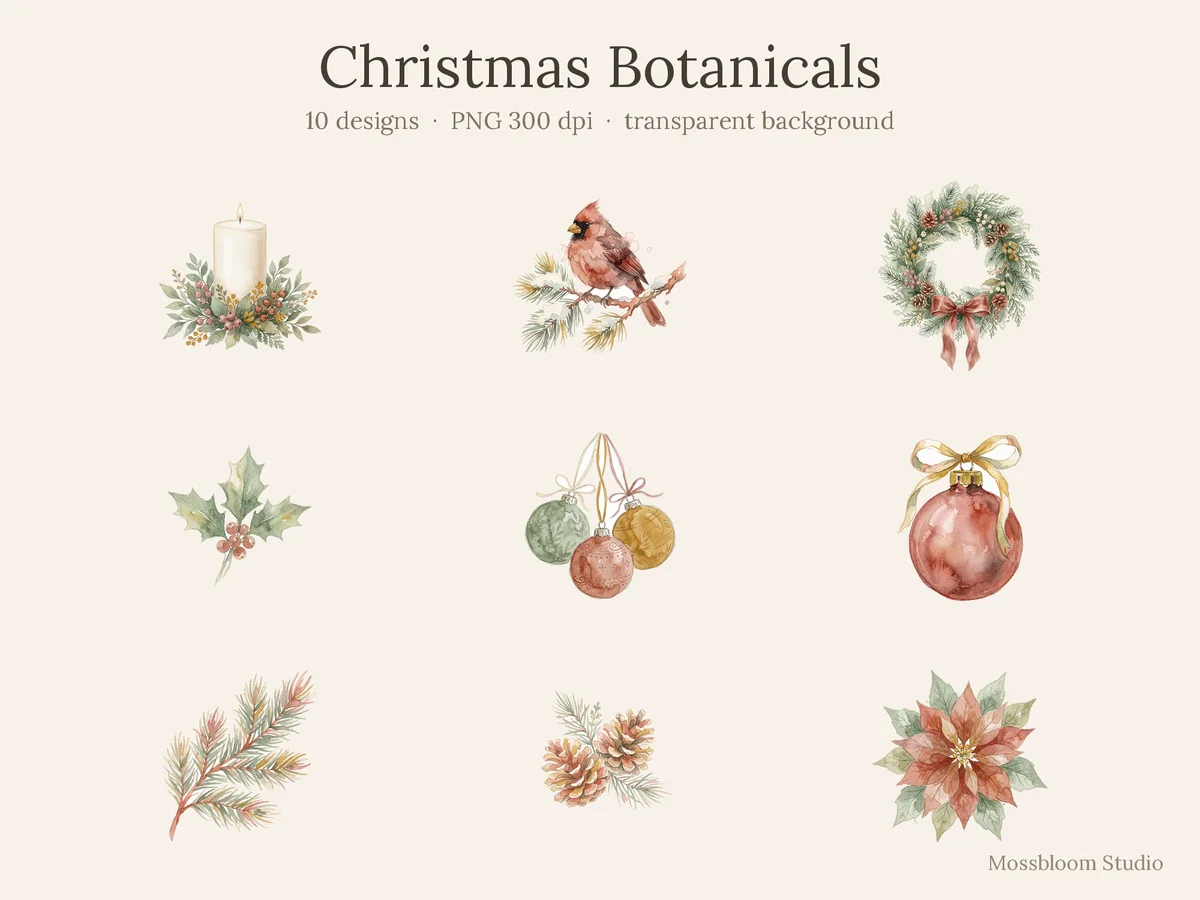
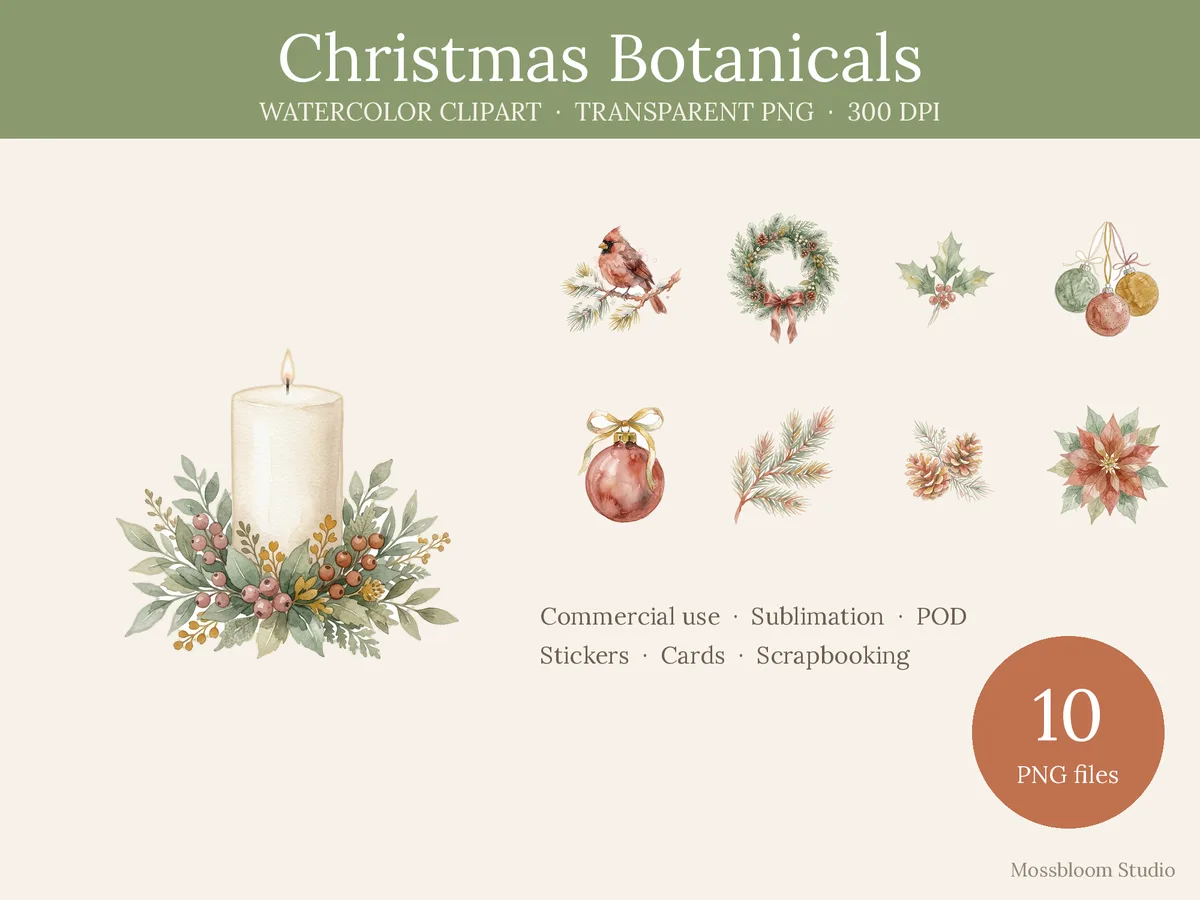
CF-style preview sheets, what's-inside sheets, bundle descriptions

diff --git a/collections/wildflower-meadow.html b/collections/wildflower-meadow.html
@@ -2,5 +2,5 @@
 <title>Wildflower Meadow | Mossbloom Studio</title><meta name="description" content="Watercolor daisies, poppies, lavender and cornflowers for summer crafts, cards and sublimation."><meta name="author" content="Mossbloom Studio">
 <meta property="og:title" content="Wildflower Meadow | Mossbloom Studio"><meta property="og:description" content="Watercolor daisies, poppies, lavender and cornflowers for summer crafts, cards and sublimation."><meta property="og:type" content="website"><meta property="og:image" content="../img/wildflower-meadow/cover.webp">
 <link rel="icon" href="../favicon.png"><link rel="stylesheet" href="../style.css"></head><body>
-<header><a class="logo" href="../index.html">Mossbloom Studio</a><nav><a href="../index.html">Home</a><a href="../portfolio.html">Portfolio</a><a href="../license.html">Formats & License</a><a href="../freebies.html">Freebies</a><a href="../about.html">About</a><a href="../contact.html">Contact</a></nav></header><main><p><a href="../portfolio.html">← Portfolio</a></p><h1>Wildflower Meadow</h1><p>Watercolor daisies, poppies, lavender and cornflowers for summer crafts, cards and sublimation.</p><p class="note">10 designs · PNG 300 dpi, transparent background · JPG · Commercial use license</p><img src="../img/wildflower-meadow/cover.webp" alt="Wildflower Meadow cover" style="width:100%;border-radius:14px"><h2>Designs</h2><div class="grid"><a class="card" href="../img/wildflower-meadow/berry-branch.webp"><img loading="lazy" src="../img/wildflower-meadow/berry-branch.webp" alt="Berry Branch - Wildflower Meadow"><div><h3>Berry Branch</h3></div></a><a class="card" href="../img/wildflower-meadow/chamomile-jar.webp"><img loading="lazy" src="../img/wildflower-meadow/chamomile-jar.webp" alt="Chamomile Jar - Wildflower Meadow"><div><h3>Chamomile Jar</h3></div></a><a class="card" href="../img/wildflower-meadow/cornflower-trio.webp"><img loading="lazy" src="../img/wildflower-meadow/cornflower-trio.webp" alt="Cornflower Trio - Wildflower Meadow"><div><h3>Cornflower Trio</h3></div></a><a class="card" href="../img/wildflower-meadow/daisy-cluster.webp"><img loading="lazy" src="../img/wildflower-meadow/daisy-cluster.webp" alt="Daisy Cluster - Wildflower Meadow"><div><h3>Daisy Cluster</h3></div></a><a class="card" href="../img/wildflower-meadow/daisy-stem.webp"><img loading="lazy" src="../img/wildflower-meadow/daisy-stem.webp" alt="Daisy Stem - Wildflower Meadow"><div><h3>Daisy Stem</h3></div></a><a class="card" href="../img/wildflower-meadow/lavender-bundle.webp"><img loading="lazy" src="../img/wildflower-meadow/lavender-bundle.webp" alt="Lavender Bundle - Wildflower Meadow"><div><h3>Lavender Bundle</h3></div></a><a class="card" href="../img/wildflower-meadow/meadow-bouquet.webp"><img loading="lazy" src="../img/wildflower-meadow/meadow-bouquet.webp" alt="Meadow Bouquet - Wildflower Meadow"><div><h3>Meadow Bouquet</h3></div></a><a class="card" href="../img/wildflower-meadow/poppy-pair.webp"><img loading="lazy" src="../img/wildflower-meadow/poppy-pair.webp" alt="Poppy Pair - Wildflower Meadow"><div><h3>Poppy Pair</h3></div></a><a class="card" href="../img/wildflower-meadow/wild-rose.webp"><img loading="lazy" src="../img/wildflower-meadow/wild-rose.webp" alt="Wild Rose - Wildflower Meadow"><div><h3>Wild Rose</h3></div></a><a class="card" href="../img/wildflower-meadow/wildflower-wreath.webp"><img loading="lazy" src="../img/wildflower-meadow/wildflower-wreath.webp" alt="Wildflower Wreath - Wildflower Meadow"><div><h3>Wildflower Wreath</h3></div></a></div><h2>Mockups</h2><div class="grid big"><a class="card wide" href="../img/wildflower-meadow/mug.webp"><img loading="lazy" src="../img/wildflower-meadow/mug.webp" alt="Wildflower Meadow mug mockup"><div><h3>Mug mockup</h3></div></a><a class="card wide" href="../img/wildflower-meadow/tshirt.webp"><img loading="lazy" src="../img/wildflower-meadow/tshirt.webp" alt="Wildflower Meadow tshirt mockup"><div><h3>Tshirt mockup</h3></div></a><a class="card wide" href="../img/wildflower-meadow/stickers.webp"><img loading="lazy" src="../img/wildflower-meadow/stickers.webp" alt="Wildflower Meadow stickers mockup"><div><h3>Stickers mockup</h3></div></a><a class="card wide" href="../img/wildflower-meadow/card.webp"><img loading="lazy" src="../img/wildflower-meadow/card.webp" alt="Wildflower Meadow card mockup"><div><h3>Card mockup</h3></div></a></div></main>
+<header><a class="logo" href="../index.html">Mossbloom Studio</a><nav><a href="../index.html">Home</a><a href="../portfolio.html">Portfolio</a><a href="../license.html">Formats & License</a><a href="../freebies.html">Freebies</a><a href="../about.html">About</a><a href="../contact.html">Contact</a></nav></header><main><p><a href="../portfolio.html">← Portfolio</a></p><h1>Wildflower Meadow</h1><p>Watercolor daisies, poppies, lavender and cornflowers for summer crafts, cards and sublimation.</p><p class="note">10 designs · PNG 300 dpi, transparent background · JPG · Commercial use license</p><img src="../img/wildflower-meadow/cover.webp" alt="Wildflower Meadow cover" style="width:100%;border-radius:14px"><div class="grid big"><div class="note"><h3>What you get</h3><ul><li>10 watercolor clipart elements</li><li>Transparent PNG, 300 dpi, up to 6.8 inches on the longest side</li><li>Commercial use license included</li></ul></div><div class="note"><h3>What's inside</h3><p>Berry Branch, Chamomile Jar, Cornflower Trio, Daisy Cluster, Daisy Stem, Lavender Bundle, Meadow Bouquet, Poppy Pair, Wild Rose, Wildflower Wreath</p></div><div class="note"><h3>Perfect for</h3><p>sublimation, tumblers & mugs, t-shirts, stickers, cards & invitations, scrapbooking, junk journals, nursery & home decor</p></div></div><h2>Designs</h2><div class="grid"><a class="card" href="../img/wildflower-meadow/berry-branch.webp"><img loading="lazy" src="../img/wildflower-meadow/berry-branch.webp" alt="Berry Branch - Wildflower Meadow"><div><h3>Berry Branch</h3></div></a><a class="card" href="../img/wildflower-meadow/chamomile-jar.webp"><img loading="lazy" src="../img/wildflower-meadow/chamomile-jar.webp" alt="Chamomile Jar - Wildflower Meadow"><div><h3>Chamomile Jar</h3></div></a><a class="card" href="../img/wildflower-meadow/cornflower-trio.webp"><img loading="lazy" src="../img/wildflower-meadow/cornflower-trio.webp" alt="Cornflower Trio - Wildflower Meadow"><div><h3>Cornflower Trio</h3></div></a><a class="card" href="../img/wildflower-meadow/daisy-cluster.webp"><img loading="lazy" src="../img/wildflower-meadow/daisy-cluster.webp" alt="Daisy Cluster - Wildflower Meadow"><div><h3>Daisy Cluster</h3></div></a><a class="card" href="../img/wildflower-meadow/daisy-stem.webp"><img loading="lazy" src="../img/wildflower-meadow/daisy-stem.webp" alt="Daisy Stem - Wildflower Meadow"><div><h3>Daisy Stem</h3></div></a><a class="card" href="../img/wildflower-meadow/lavender-bundle.webp"><img loading="lazy" src="../img/wildflower-meadow/lavender-bundle.webp" alt="Lavender Bundle - Wildflower Meadow"><div><h3>Lavender Bundle</h3></div></a><a class="card" href="../img/wildflower-meadow/meadow-bouquet.webp"><img loading="lazy" src="../img/wildflower-meadow/meadow-bouquet.webp" alt="Meadow Bouquet - Wildflower Meadow"><div><h3>Meadow Bouquet</h3></div></a><a class="card" href="../img/wildflower-meadow/poppy-pair.webp"><img loading="lazy" src="../img/wildflower-meadow/poppy-pair.webp" alt="Poppy Pair - Wildflower Meadow"><div><h3>Poppy Pair</h3></div></a><a class="card" href="../img/wildflower-meadow/wild-rose.webp"><img loading="lazy" src="../img/wildflower-meadow/wild-rose.webp" alt="Wild Rose - Wildflower Meadow"><div><h3>Wild Rose</h3></div></a><a class="card" href="../img/wildflower-meadow/wildflower-wreath.webp"><img loading="lazy" src="../img/wildflower-meadow/wildflower-wreath.webp" alt="Wildflower Wreath - Wildflower Meadow"><div><h3>Wildflower Wreath</h3></div></a></div><h2>What's inside</h2><img loading="lazy" src="../img/wildflower-meadow/inside.webp" alt="Wildflower Meadow contents" style="width:100%;border-radius:14px;background:#fff"><h2>Mockups</h2><div class="grid big"><a class="card wide" href="../img/wildflower-meadow/mug.webp"><img loading="lazy" src="../img/wildflower-meadow/mug.webp" alt="Wildflower Meadow mug mockup"><div><h3>Mug mockup</h3></div></a><a class="card wide" href="../img/wildflower-meadow/tshirt.webp"><img loading="lazy" src="../img/wildflower-meadow/tshirt.webp" alt="Wildflower Meadow tshirt mockup"><div><h3>Tshirt mockup</h3></div></a><a class="card wide" href="../img/wildflower-meadow/stickers.webp"><img loading="lazy" src="../img/wildflower-meadow/stickers.webp" alt="Wildflower Meadow stickers mockup"><div><h3>Stickers mockup</h3></div></a><a class="card wide" href="../img/wildflower-meadow/card.webp"><img loading="lazy" src="../img/wildflower-meadow/card.webp" alt="Wildflower Meadow card mockup"><div><h3>Card mockup</h3></div></a></div></main>
 <footer>© 2026 Mossbloom Studio · Original watercolor clipart &amp; SVG designs · Creative Fabrica Account ID #11487475</footer></body></html>

diff --git a/collections/christmas-botanicals.html b/collections/christmas-botanicals.html
@@ -2,5 +2,5 @@
 <title>Christmas Botanicals | Mossbloom Studio</title><meta name="description" content="Pine sprigs, holly, ornaments, poinsettias and wreaths for holiday cards and decor."><meta name="author" content="Mossbloom Studio">
 <meta property="og:title" content="Christmas Botanicals | Mossbloom Studio"><meta property="og:description" content="Pine sprigs, holly, ornaments, poinsettias and wreaths for holiday cards and decor."><meta property="og:type" content="website"><meta property="og:image" content="../img/wildflower-meadow/cover.webp">
 <link rel="icon" href="../favicon.png"><link rel="stylesheet" href="../style.css"></head><body>
-<header><a class="logo" href="../index.html">Mossbloom Studio</a><nav><a href="../index.html">Home</a><a href="../portfolio.html">Portfolio</a><a href="../license.html">Formats & License</a><a href="../freebies.html">Freebies</a><a href="../about.html">About</a><a href="../contact.html">Contact</a></nav></header><main><p><a href="../portfolio.html">← Portfolio</a></p><h1>Christmas Botanicals</h1><p>Pine sprigs, holly, ornaments, poinsettias and wreaths for holiday cards and decor.</p><p class="note">10 designs · PNG 300 dpi, transparent background · JPG · Commercial use license</p><img src="../img/christmas-botanicals/cover.webp" alt="Christmas Botanicals cover" style="width:100%;border-radius:14px"><h2>Designs</h2><div class="grid"><a class="card" href="../img/christmas-botanicals/candle.webp"><img loading="lazy" src="../img/christmas-botanicals/candle.webp" alt="Candle - Christmas Botanicals"><div><h3>Candle</h3></div></a><a class="card" href="../img/christmas-botanicals/cardinal.webp"><img loading="lazy" src="../img/christmas-botanicals/cardinal.webp" alt="Cardinal - Christmas Botanicals"><div><h3>Cardinal</h3></div></a><a class="card" href="../img/christmas-botanicals/christmas-wreath.webp"><img loading="lazy" src="../img/christmas-botanicals/christmas-wreath.webp" alt="Christmas Wreath - Christmas Botanicals"><div><h3>Christmas Wreath</h3></div></a><a class="card" href="../img/christmas-botanicals/holly.webp"><img loading="lazy" src="../img/christmas-botanicals/holly.webp" alt="Holly - Christmas Botanicals"><div><h3>Holly</h3></div></a><a class="card" href="../img/christmas-botanicals/ornament-trio.webp"><img loading="lazy" src="../img/christmas-botanicals/ornament-trio.webp" alt="Ornament Trio - Christmas Botanicals"><div><h3>Ornament Trio</h3></div></a><a class="card" href="../img/christmas-botanicals/ornament.webp"><img loading="lazy" src="../img/christmas-botanicals/ornament.webp" alt="Ornament - Christmas Botanicals"><div><h3>Ornament</h3></div></a><a class="card" href="../img/christmas-botanicals/pine-sprig.webp"><img loading="lazy" src="../img/christmas-botanicals/pine-sprig.webp" alt="Pine Sprig - Christmas Botanicals"><div><h3>Pine Sprig</h3></div></a><a class="card" href="../img/christmas-botanicals/pinecones.webp"><img loading="lazy" src="../img/christmas-botanicals/pinecones.webp" alt="Pinecones - Christmas Botanicals"><div><h3>Pinecones</h3></div></a><a class="card" href="../img/christmas-botanicals/poinsettia.webp"><img loading="lazy" src="../img/christmas-botanicals/poinsettia.webp" alt="Poinsettia - Christmas Botanicals"><div><h3>Poinsettia</h3></div></a><a class="card" href="../img/christmas-botanicals/winter-bouquet.webp"><img loading="lazy" src="../img/christmas-botanicals/winter-bouquet.webp" alt="Winter Bouquet - Christmas Botanicals"><div><h3>Winter Bouquet</h3></div></a></div><h2>Mockups</h2><div class="grid big"><a class="card wide" href="../img/christmas-botanicals/mug.webp"><img loading="lazy" src="../img/christmas-botanicals/mug.webp" alt="Christmas Botanicals mug mockup"><div><h3>Mug mockup</h3></div></a><a class="card wide" href="../img/christmas-botanicals/tshirt.webp"><img loading="lazy" src="../img/christmas-botanicals/tshirt.webp" alt="Christmas Botanicals tshirt mockup"><div><h3>Tshirt mockup</h3></div></a><a class="card wide" href="../img/christmas-botanicals/stickers.webp"><img loading="lazy" src="../img/christmas-botanicals/stickers.webp" alt="Christmas Botanicals stickers mockup"><div><h3>Stickers mockup</h3></div></a><a class="card wide" href="../img/christmas-botanicals/card.webp"><img loading="lazy" src="../img/christmas-botanicals/card.webp" alt="Christmas Botanicals card mockup"><div><h3>Card mockup</h3></div></a></div></main>
+<header><a class="logo" href="../index.html">Mossbloom Studio</a><nav><a href="../index.html">Home</a><a href="../portfolio.html">Portfolio</a><a href="../license.html">Formats & License</a><a href="../freebies.html">Freebies</a><a href="../about.html">About</a><a href="../contact.html">Contact</a></nav></header><main><p><a href="../portfolio.html">← Portfolio</a></p><h1>Christmas Botanicals</h1><p>Pine sprigs, holly, ornaments, poinsettias and wreaths for holiday cards and decor.</p><p class="note">10 designs · PNG 300 dpi, transparent background · JPG · Commercial use license</p><img src="../img/christmas-botanicals/cover.webp" alt="Christmas Botanicals cover" style="width:100%;border-radius:14px"><div class="grid big"><div class="note"><h3>What you get</h3><ul><li>10 watercolor clipart elements</li><li>Transparent PNG, 300 dpi, up to 6.8 inches on the longest side</li><li>Commercial use license included</li></ul></div><div class="note"><h3>What's inside</h3><p>Candle, Cardinal, Christmas Wreath, Holly, Ornament Trio, Ornament, Pine Sprig, Pinecones, Poinsettia, Winter Bouquet</p></div><div class="note"><h3>Perfect for</h3><p>sublimation, tumblers & mugs, t-shirts, stickers, cards & invitations, scrapbooking, junk journals, nursery & home decor</p></div></div><h2>Designs</h2><div class="grid"><a class="card" href="../img/christmas-botanicals/candle.webp"><img loading="lazy" src="../img/christmas-botanicals/candle.webp" alt="Candle - Christmas Botanicals"><div><h3>Candle</h3></div></a><a class="card" href="../img/christmas-botanicals/cardinal.webp"><img loading="lazy" src="../img/christmas-botanicals/cardinal.webp" alt="Cardinal - Christmas Botanicals"><div><h3>Cardinal</h3></div></a><a class="card" href="../img/christmas-botanicals/christmas-wreath.webp"><img loading="lazy" src="../img/christmas-botanicals/christmas-wreath.webp" alt="Christmas Wreath - Christmas Botanicals"><div><h3>Christmas Wreath</h3></div></a><a class="card" href="../img/christmas-botanicals/holly.webp"><img loading="lazy" src="../img/christmas-botanicals/holly.webp" alt="Holly - Christmas Botanicals"><div><h3>Holly</h3></div></a><a class="card" href="../img/christmas-botanicals/ornament-trio.webp"><img loading="lazy" src="../img/christmas-botanicals/ornament-trio.webp" alt="Ornament Trio - Christmas Botanicals"><div><h3>Ornament Trio</h3></div></a><a class="card" href="../img/christmas-botanicals/ornament.webp"><img loading="lazy" src="../img/christmas-botanicals/ornament.webp" alt="Ornament - Christmas Botanicals"><div><h3>Ornament</h3></div></a><a class="card" href="../img/christmas-botanicals/pine-sprig.webp"><img loading="lazy" src="../img/christmas-botanicals/pine-sprig.webp" alt="Pine Sprig - Christmas Botanicals"><div><h3>Pine Sprig</h3></div></a><a class="card" href="../img/christmas-botanicals/pinecones.webp"><img loading="lazy" src="../img/christmas-botanicals/pinecones.webp" alt="Pinecones - Christmas Botanicals"><div><h3>Pinecones</h3></div></a><a class="card" href="../img/christmas-botanicals/poinsettia.webp"><img loading="lazy" src="../img/christmas-botanicals/poinsettia.webp" alt="Poinsettia - Christmas Botanicals"><div><h3>Poinsettia</h3></div></a><a class="card" href="../img/christmas-botanicals/winter-bouquet.webp"><img loading="lazy" src="../img/christmas-botanicals/winter-bouquet.webp" alt="Winter Bouquet - Christmas Botanicals"><div><h3>Winter Bouquet</h3></div></a></div><h2>What's inside</h2><img loading="lazy" src="../img/christmas-botanicals/inside.webp" alt="Christmas Botanicals contents" style="width:100%;border-radius:14px;background:#fff"><h2>Mockups</h2><div class="grid big"><a class="card wide" href="../img/christmas-botanicals/mug.webp"><img loading="lazy" src="../img/christmas-botanicals/mug.webp" alt="Christmas Botanicals mug mockup"><div><h3>Mug mockup</h3></div></a><a class="card wide" href="../img/christmas-botanicals/tshirt.webp"><img loading="lazy" src="../img/christmas-botanicals/tshirt.webp" alt="Christmas Botanicals tshirt mockup"><div><h3>Tshirt mockup</h3></div></a><a class="card wide" href="../img/christmas-botanicals/stickers.webp"><img loading="lazy" src="../img/christmas-botanicals/stickers.webp" alt="Christmas Botanicals stickers mockup"><div><h3>Stickers mockup</h3></div></a><a class="card wide" href="../img/christmas-botanicals/card.webp"><img loading="lazy" src="../img/christmas-botanicals/card.webp" alt="Christmas Botanicals card mockup"><div><h3>Card mockup</h3></div></a></div></main>
 <footer>© 2026 Mossbloom Studio · Original watercolor clipart &amp; SVG designs · Creative Fabrica Account ID #11487475</footer></body></html>

diff --git a/collections/spring-birds.html b/collections/spring-birds.html
@@ -2,5 +2,5 @@
 <title>Spring Birds | Mossbloom Studio</title><meta name="description" content="Sweet songbirds, blossom branches, nests and tulips in soft spring colors."><meta name="author" content="Mossbloom Studio">
 <meta property="og:title" content="Spring Birds | Mossbloom Studio"><meta property="og:description" content="Sweet songbirds, blossom branches, nests and tulips in soft spring colors."><meta property="og:type" content="website"><meta property="og:image" content="../img/wildflower-meadow/cover.webp">
 <link rel="icon" href="../favicon.png"><link rel="stylesheet" href="../style.css"></head><body>
-<header><a class="logo" href="../index.html">Mossbloom Studio</a><nav><a href="../index.html">Home</a><a href="../portfolio.html">Portfolio</a><a href="../license.html">Formats & License</a><a href="../freebies.html">Freebies</a><a href="../about.html">About</a><a href="../contact.html">Contact</a></nav></header><main><p><a href="../portfolio.html">← Portfolio</a></p><h1>Spring Birds</h1><p>Sweet songbirds, blossom branches, nests and tulips in soft spring colors.</p><p class="note">10 designs · PNG 300 dpi, transparent background · JPG · Commercial use license</p><img src="../img/spring-birds/cover.webp" alt="Spring Birds cover" style="width:100%;border-radius:14px"><h2>Designs</h2><div class="grid"><a class="card" href="../img/spring-birds/bird-and-blossom.webp"><img loading="lazy" src="../img/spring-birds/bird-and-blossom.webp" alt="Bird And Blossom - Spring Birds"><div><h3>Bird And Blossom</h3></div></a><a class="card" href="../img/spring-birds/bird-pair.webp"><img loading="lazy" src="../img/spring-birds/bird-pair.webp" alt="Bird Pair - Spring Birds"><div><h3>Bird Pair</h3></div></a><a class="card" href="../img/spring-birds/bird-wreath.webp"><img loading="lazy" src="../img/spring-birds/bird-wreath.webp" alt="Bird Wreath - Spring Birds"><div><h3>Bird Wreath</h3></div></a><a class="card" href="../img/spring-birds/birdhouse.webp"><img loading="lazy" src="../img/spring-birds/birdhouse.webp" alt="Birdhouse - Spring Birds"><div><h3>Birdhouse</h3></div></a><a class="card" href="../img/spring-birds/blossom-branch.webp"><img loading="lazy" src="../img/spring-birds/blossom-branch.webp" alt="Blossom Branch - Spring Birds"><div><h3>Blossom Branch</h3></div></a><a class="card" href="../img/spring-birds/bluebird.webp"><img loading="lazy" src="../img/spring-birds/bluebird.webp" alt="Bluebird - Spring Birds"><div><h3>Bluebird</h3></div></a><a class="card" href="../img/spring-birds/nest.webp"><img loading="lazy" src="../img/spring-birds/nest.webp" alt="Nest - Spring Birds"><div><h3>Nest</h3></div></a><a class="card" href="../img/spring-birds/robin.webp"><img loading="lazy" src="../img/spring-birds/robin.webp" alt="Robin - Spring Birds"><div><h3>Robin</h3></div></a><a class="card" href="../img/spring-birds/sparrow-sprig.webp"><img loading="lazy" src="../img/spring-birds/sparrow-sprig.webp" alt="Sparrow Sprig - Spring Birds"><div><h3>Sparrow Sprig</h3></div></a><a class="card" href="../img/spring-birds/tulips.webp"><img loading="lazy" src="../img/spring-birds/tulips.webp" alt="Tulips - Spring Birds"><div><h3>Tulips</h3></div></a></div><h2>Mockups</h2><div class="grid big"><a class="card wide" href="../img/spring-birds/mug.webp"><img loading="lazy" src="../img/spring-birds/mug.webp" alt="Spring Birds mug mockup"><div><h3>Mug mockup</h3></div></a><a class="card wide" href="../img/spring-birds/tshirt.webp"><img loading="lazy" src="../img/spring-birds/tshirt.webp" alt="Spring Birds tshirt mockup"><div><h3>Tshirt mockup</h3></div></a><a class="card wide" href="../img/spring-birds/stickers.webp"><img loading="lazy" src="../img/spring-birds/stickers.webp" alt="Spring Birds stickers mockup"><div><h3>Stickers mockup</h3></div></a><a class="card wide" href="../img/spring-birds/card.webp"><img loading="lazy" src="../img/spring-birds/card.webp" alt="Spring Birds card mockup"><div><h3>Card mockup</h3></div></a></div></main>
+<header><a class="logo" href="../index.html">Mossbloom Studio</a><nav><a href="../index.html">Home</a><a href="../portfolio.html">Portfolio</a><a href="../license.html">Formats & License</a><a href="../freebies.html">Freebies</a><a href="../about.html">About</a><a href="../contact.html">Contact</a></nav></header><main><p><a href="../portfolio.html">← Portfolio</a></p><h1>Spring Birds</h1><p>Sweet songbirds, blossom branches, nests and tulips in soft spring colors.</p><p class="note">10 designs · PNG 300 dpi, transparent background · JPG · Commercial use license</p><img src="../img/spring-birds/cover.webp" alt="Spring Birds cover" style="width:100%;border-radius:14px"><div class="grid big"><div class="note"><h3>What you get</h3><ul><li>10 watercolor clipart elements</li><li>Transparent PNG, 300 dpi, up to 6.8 inches on the longest side</li><li>Commercial use license included</li></ul></div><div class="note"><h3>What's inside</h3><p>Bird And Blossom, Bird Pair, Bird Wreath, Birdhouse, Blossom Branch, Bluebird, Nest, Robin, Sparrow Sprig, Tulips</p></div><div class="note"><h3>Perfect for</h3><p>sublimation, tumblers & mugs, t-shirts, stickers, cards & invitations, scrapbooking, junk journals, nursery & home decor</p></div></div><h2>Designs</h2><div class="grid"><a class="card" href="../img/spring-birds/bird-and-blossom.webp"><img loading="lazy" src="../img/spring-birds/bird-and-blossom.webp" alt="Bird And Blossom - Spring Birds"><div><h3>Bird And Blossom</h3></div></a><a class="card" href="../img/spring-birds/bird-pair.webp"><img loading="lazy" src="../img/spring-birds/bird-pair.webp" alt="Bird Pair - Spring Birds"><div><h3>Bird Pair</h3></div></a><a class="card" href="../img/spring-birds/bird-wreath.webp"><img loading="lazy" src="../img/spring-birds/bird-wreath.webp" alt="Bird Wreath - Spring Birds"><div><h3>Bird Wreath</h3></div></a><a class="card" href="../img/spring-birds/birdhouse.webp"><img loading="lazy" src="../img/spring-birds/birdhouse.webp" alt="Birdhouse - Spring Birds"><div><h3>Birdhouse</h3></div></a><a class="card" href="../img/spring-birds/blossom-branch.webp"><img loading="lazy" src="../img/spring-birds/blossom-branch.webp" alt="Blossom Branch - Spring Birds"><div><h3>Blossom Branch</h3></div></a><a class="card" href="../img/spring-birds/bluebird.webp"><img loading="lazy" src="../img/spring-birds/bluebird.webp" alt="Bluebird - Spring Birds"><div><h3>Bluebird</h3></div></a><a class="card" href="../img/spring-birds/nest.webp"><img loading="lazy" src="../img/spring-birds/nest.webp" alt="Nest - Spring Birds"><div><h3>Nest</h3></div></a><a class="card" href="../img/spring-birds/robin.webp"><img loading="lazy" src="../img/spring-birds/robin.webp" alt="Robin - Spring Birds"><div><h3>Robin</h3></div></a><a class="card" href="../img/spring-birds/sparrow-sprig.webp"><img loading="lazy" src="../img/spring-birds/sparrow-sprig.webp" alt="Sparrow Sprig - Spring Birds"><div><h3>Sparrow Sprig</h3></div></a><a class="card" href="../img/spring-birds/tulips.webp"><img loading="lazy" src="../img/spring-birds/tulips.webp" alt="Tulips - Spring Birds"><div><h3>Tulips</h3></div></a></div><h2>What's inside</h2><img loading="lazy" src="../img/spring-birds/inside.webp" alt="Spring Birds contents" style="width:100%;border-radius:14px;background:#fff"><h2>Mockups</h2><div class="grid big"><a class="card wide" href="../img/spring-birds/mug.webp"><img loading="lazy" src="../img/spring-birds/mug.webp" alt="Spring Birds mug mockup"><div><h3>Mug mockup</h3></div></a><a class="card wide" href="../img/spring-birds/tshirt.webp"><img loading="lazy" src="../img/spring-birds/tshirt.webp" alt="Spring Birds tshirt mockup"><div><h3>Tshirt mockup</h3></div></a><a class="card wide" href="../img/spring-birds/stickers.webp"><img loading="lazy" src="../img/spring-birds/stickers.webp" alt="Spring Birds stickers mockup"><div><h3>Stickers mockup</h3></div></a><a class="card wide" href="../img/spring-birds/card.webp"><img loading="lazy" src="../img/spring-birds/card.webp" alt="Spring Birds card mockup"><div><h3>Card mockup</h3></div></a></div></main>
 <footer>© 2026 Mossbloom Studio · Original watercolor clipart &amp; SVG designs · Creative Fabrica Account ID #11487475</footer></body></html>

diff --git a/collections/boho-floral-svg.html b/collections/boho-floral-svg.html
@@ -2,5 +2,5 @@
 <title>Boho Floral SVG | Mossbloom Studio</title><meta name="description" content="Layered, Cricut-ready cut files: rainbows, suns, moons, flowers and mushrooms."><meta name="author" content="Mossbloom Studio">
 <meta property="og:title" content="Boho Floral SVG | Mossbloom Studio"><meta property="og:description" content="Layered, Cricut-ready cut files: rainbows, suns, moons, flowers and mushrooms."><meta property="og:type" content="website"><meta property="og:image" content="../img/wildflower-meadow/cover.webp">
 <link rel="icon" href="../favicon.png"><link rel="stylesheet" href="../style.css"></head><body>
-<header><a class="logo" href="../index.html">Mossbloom Studio</a><nav><a href="../index.html">Home</a><a href="../portfolio.html">Portfolio</a><a href="../license.html">Formats & License</a><a href="../freebies.html">Freebies</a><a href="../about.html">About</a><a href="../contact.html">Contact</a></nav></header><main><p><a href="../portfolio.html">← Portfolio</a></p><h1>Boho Floral SVG</h1><p>Layered, Cricut-ready cut files: rainbows, suns, moons, flowers and mushrooms.</p><p class="note">9 designs · SVG · DXF · EPS · PNG 300 dpi · Commercial use license</p><img src="../img/boho-floral-svg/cover.webp" alt="Boho Floral SVG cover" style="width:100%;border-radius:14px"><h2>Designs</h2><div class="grid"><a class="card" href="../img/boho-floral-svg/boho-flower.webp"><img loading="lazy" src="../img/boho-floral-svg/boho-flower.webp" alt="Boho Flower - Boho Floral SVG"><div><h3>Boho Flower</h3></div></a><a class="card" href="../img/boho-floral-svg/boho-moon.webp"><img loading="lazy" src="../img/boho-floral-svg/boho-moon.webp" alt="Boho Moon - Boho Floral SVG"><div><h3>Boho Moon</h3></div></a><a class="card" href="../img/boho-floral-svg/boho-mountains.webp"><img loading="lazy" src="../img/boho-floral-svg/boho-mountains.webp" alt="Boho Mountains - Boho Floral SVG"><div><h3>Boho Mountains</h3></div></a><a class="card" href="../img/boho-floral-svg/boho-mushroom.webp"><img loading="lazy" src="../img/boho-floral-svg/boho-mushroom.webp" alt="Boho Mushroom - Boho Floral SVG"><div><h3>Boho Mushroom</h3></div></a><a class="card" href="../img/boho-floral-svg/boho-rainbow.webp"><img loading="lazy" src="../img/boho-floral-svg/boho-rainbow.webp" alt="Boho Rainbow - Boho Floral SVG"><div><h3>Boho Rainbow</h3></div></a><a class="card" href="../img/boho-floral-svg/boho-sun.webp"><img loading="lazy" src="../img/boho-floral-svg/boho-sun.webp" alt="Boho Sun - Boho Floral SVG"><div><h3>Boho Sun</h3></div></a><a class="card" href="../img/boho-floral-svg/boho-vase.webp"><img loading="lazy" src="../img/boho-floral-svg/boho-vase.webp" alt="Boho Vase - Boho Floral SVG"><div><h3>Boho Vase</h3></div></a><a class="card" href="../img/boho-floral-svg/floral-wreath.webp"><img loading="lazy" src="../img/boho-floral-svg/floral-wreath.webp" alt="Floral Wreath - Boho Floral SVG"><div><h3>Floral Wreath</h3></div></a><a class="card" href="../img/boho-floral-svg/leafy-branch.webp"><img loading="lazy" src="../img/boho-floral-svg/leafy-branch.webp" alt="Leafy Branch - Boho Floral SVG"><div><h3>Leafy Branch</h3></div></a></div><h2>Mockups</h2><div class="grid big"><a class="card wide" href="../img/boho-floral-svg/mug.webp"><img loading="lazy" src="../img/boho-floral-svg/mug.webp" alt="Boho Floral SVG mug mockup"><div><h3>Mug mockup</h3></div></a><a class="card wide" href="../img/boho-floral-svg/tshirt.webp"><img loading="lazy" src="../img/boho-floral-svg/tshirt.webp" alt="Boho Floral SVG tshirt mockup"><div><h3>Tshirt mockup</h3></div></a><a class="card wide" href="../img/boho-floral-svg/stickers.webp"><img loading="lazy" src="../img/boho-floral-svg/stickers.webp" alt="Boho Floral SVG stickers mockup"><div><h3>Stickers mockup</h3></div></a><a class="card wide" href="../img/boho-floral-svg/card.webp"><img loading="lazy" src="../img/boho-floral-svg/card.webp" alt="Boho Floral SVG card mockup"><div><h3>Card mockup</h3></div></a></div></main>
+<header><a class="logo" href="../index.html">Mossbloom Studio</a><nav><a href="../index.html">Home</a><a href="../portfolio.html">Portfolio</a><a href="../license.html">Formats & License</a><a href="../freebies.html">Freebies</a><a href="../about.html">About</a><a href="../contact.html">Contact</a></nav></header><main><p><a href="../portfolio.html">← Portfolio</a></p><h1>Boho Floral SVG</h1><p>Layered, Cricut-ready cut files: rainbows, suns, moons, flowers and mushrooms.</p><p class="note">9 designs · SVG · DXF · EPS · PNG 300 dpi · Commercial use license</p><img src="../img/boho-floral-svg/cover.webp" alt="Boho Floral SVG cover" style="width:100%;border-radius:14px"><div class="grid big"><div class="note"><h3>What you get</h3><ul><li>9 layered SVG cut files + DXF, EPS and PNG 300 dpi</li><li>Clean, closed shapes, ready for Cricut Design Space</li><li>Commercial use license included</li></ul></div><div class="note"><h3>What's inside</h3><p>Boho Flower, Boho Moon, Boho Mountains, Boho Mushroom, Boho Rainbow, Boho Sun, Boho Vase, Floral Wreath, Leafy Branch</p></div><div class="note"><h3>Perfect for</h3><p>Cricut, Silhouette, vinyl decals, HTV t-shirts, laser cutting, stickers, cards</p></div></div><h2>Designs</h2><div class="grid"><a class="card" href="../img/boho-floral-svg/boho-flower.webp"><img loading="lazy" src="../img/boho-floral-svg/boho-flower.webp" alt="Boho Flower - Boho Floral SVG"><div><h3>Boho Flower</h3></div></a><a class="card" href="../img/boho-floral-svg/boho-moon.webp"><img loading="lazy" src="../img/boho-floral-svg/boho-moon.webp" alt="Boho Moon - Boho Floral SVG"><div><h3>Boho Moon</h3></div></a><a class="card" href="../img/boho-floral-svg/boho-mountains.webp"><img loading="lazy" src="../img/boho-floral-svg/boho-mountains.webp" alt="Boho Mountains - Boho Floral SVG"><div><h3>Boho Mountains</h3></div></a><a class="card" href="../img/boho-floral-svg/boho-mushroom.webp"><img loading="lazy" src="../img/boho-floral-svg/boho-mushroom.webp" alt="Boho Mushroom - Boho Floral SVG"><div><h3>Boho Mushroom</h3></div></a><a class="card" href="../img/boho-floral-svg/boho-rainbow.webp"><img loading="lazy" src="../img/boho-floral-svg/boho-rainbow.webp" alt="Boho Rainbow - Boho Floral SVG"><div><h3>Boho Rainbow</h3></div></a><a class="card" href="../img/boho-floral-svg/boho-sun.webp"><img loading="lazy" src="../img/boho-floral-svg/boho-sun.webp" alt="Boho Sun - Boho Floral SVG"><div><h3>Boho Sun</h3></div></a><a class="card" href="../img/boho-floral-svg/boho-vase.webp"><img loading="lazy" src="../img/boho-floral-svg/boho-vase.webp" alt="Boho Vase - Boho Floral SVG"><div><h3>Boho Vase</h3></div></a><a class="card" href="../img/boho-floral-svg/floral-wreath.webp"><img loading="lazy" src="../img/boho-floral-svg/floral-wreath.webp" alt="Floral Wreath - Boho Floral SVG"><div><h3>Floral Wreath</h3></div></a><a class="card" href="../img/boho-floral-svg/leafy-branch.webp"><img loading="lazy" src="../img/boho-floral-svg/leafy-branch.webp" alt="Leafy Branch - Boho Floral SVG"><div><h3>Leafy Branch</h3></div></a></div><h2>What's inside</h2><img loading="lazy" src="../img/boho-floral-svg/inside.webp" alt="Boho Floral SVG contents" style="width:100%;border-radius:14px;background:#fff"><h2>Mockups</h2><div class="grid big"><a class="card wide" href="../img/boho-floral-svg/mug.webp"><img loading="lazy" src="../img/boho-floral-svg/mug.webp" alt="Boho Floral SVG mug mockup"><div><h3>Mug mockup</h3></div></a><a class="card wide" href="../img/boho-floral-svg/tshirt.webp"><img loading="lazy" src="../img/boho-floral-svg/tshirt.webp" alt="Boho Floral SVG tshirt mockup"><div><h3>Tshirt mockup</h3></div></a><a class="card wide" href="../img/boho-floral-svg/stickers.webp"><img loading="lazy" src="../img/boho-floral-svg/stickers.webp" alt="Boho Floral SVG stickers mockup"><div><h3>Stickers mockup</h3></div></a><a class="card wide" href="../img/boho-floral-svg/card.webp"><img loading="lazy" src="../img/boho-floral-svg/card.webp" alt="Boho Floral SVG card mockup"><div><h3>Card mockup</h3></div></a></div></main>
 <footer>© 2026 Mossbloom Studio · Original watercolor clipart &amp; SVG designs · Creative Fabrica Account ID #11487475</footer></body></html>

diff --git a/collections/autumn-cozy.html b/collections/autumn-cozy.html
@@ -2,5 +2,5 @@
 <title>Autumn Cozy | Mossbloom Studio</title><meta name="description" content="Pumpkins, maple leaves, acorns, mushrooms and a warm mug — cozy fall clipart."><meta name="author" content="Mossbloom Studio">
 <meta property="og:title" content="Autumn Cozy | Mossbloom Studio"><meta property="og:description" content="Pumpkins, maple leaves, acorns, mushrooms and a warm mug — cozy fall clipart."><meta property="og:type" content="website"><meta property="og:image" content="../img/wildflower-meadow/cover.webp">
 <link rel="icon" href="../favicon.png"><link rel="stylesheet" href="../style.css"></head><body>
-<header><a class="logo" href="../index.html">Mossbloom Studio</a><nav><a href="../index.html">Home</a><a href="../portfolio.html">Portfolio</a><a href="../license.html">Formats & License</a><a href="../freebies.html">Freebies</a><a href="../about.html">About</a><a href="../contact.html">Contact</a></nav></header><main><p><a href="../portfolio.html">← Portfolio</a></p><h1>Autumn Cozy</h1><p>Pumpkins, maple leaves, acorns, mushrooms and a warm mug — cozy fall clipart.</p><p class="note">10 designs · PNG 300 dpi, transparent background · JPG · Commercial use license</p><img src="../img/autumn-cozy/cover.webp" alt="Autumn Cozy cover" style="width:100%;border-radius:14px"><h2>Designs</h2><div class="grid"><a class="card" href="../img/autumn-cozy/acorns.webp"><img loading="lazy" src="../img/autumn-cozy/acorns.webp" alt="Acorns - Autumn Cozy"><div><h3>Acorns</h3></div></a><a class="card" href="../img/autumn-cozy/autumn-wreath.webp"><img loading="lazy" src="../img/autumn-cozy/autumn-wreath.webp" alt="Autumn Wreath - Autumn Cozy"><div><h3>Autumn Wreath</h3></div></a><a class="card" href="../img/autumn-cozy/cozy-books.webp"><img loading="lazy" src="../img/autumn-cozy/cozy-books.webp" alt="Cozy Books - Autumn Cozy"><div><h3>Cozy Books</h3></div></a><a class="card" href="../img/autumn-cozy/cozy-mug.webp"><img loading="lazy" src="../img/autumn-cozy/cozy-mug.webp" alt="Cozy Mug - Autumn Cozy"><div><h3>Cozy Mug</h3></div></a><a class="card" href="../img/autumn-cozy/falling-leaves.webp"><img loading="lazy" src="../img/autumn-cozy/falling-leaves.webp" alt="Falling Leaves - Autumn Cozy"><div><h3>Falling Leaves</h3></div></a><a class="card" href="../img/autumn-cozy/maple-leaf.webp"><img loading="lazy" src="../img/autumn-cozy/maple-leaf.webp" alt="Maple Leaf - Autumn Cozy"><div><h3>Maple Leaf</h3></div></a><a class="card" href="../img/autumn-cozy/mushrooms.webp"><img loading="lazy" src="../img/autumn-cozy/mushrooms.webp" alt="Mushrooms - Autumn Cozy"><div><h3>Mushrooms</h3></div></a><a class="card" href="../img/autumn-cozy/pumpkin-trio.webp"><img loading="lazy" src="../img/autumn-cozy/pumpkin-trio.webp" alt="Pumpkin Trio - Autumn Cozy"><div><h3>Pumpkin Trio</h3></div></a><a class="card" href="../img/autumn-cozy/pumpkin.webp"><img loading="lazy" src="../img/autumn-cozy/pumpkin.webp" alt="Pumpkin - Autumn Cozy"><div><h3>Pumpkin</h3></div></a><a class="card" href="../img/autumn-cozy/sunflower.webp"><img loading="lazy" src="../img/autumn-cozy/sunflower.webp" alt="Sunflower - Autumn Cozy"><div><h3>Sunflower</h3></div></a></div><h2>Mockups</h2><div class="grid big"><a class="card wide" href="../img/autumn-cozy/mug.webp"><img loading="lazy" src="../img/autumn-cozy/mug.webp" alt="Autumn Cozy mug mockup"><div><h3>Mug mockup</h3></div></a><a class="card wide" href="../img/autumn-cozy/tshirt.webp"><img loading="lazy" src="../img/autumn-cozy/tshirt.webp" alt="Autumn Cozy tshirt mockup"><div><h3>Tshirt mockup</h3></div></a><a class="card wide" href="../img/autumn-cozy/stickers.webp"><img loading="lazy" src="../img/autumn-cozy/stickers.webp" alt="Autumn Cozy stickers mockup"><div><h3>Stickers mockup</h3></div></a><a class="card wide" href="../img/autumn-cozy/card.webp"><img loading="lazy" src="../img/autumn-cozy/card.webp" alt="Autumn Cozy card mockup"><div><h3>Card mockup</h3></div></a></div></main>
+<header><a class="logo" href="../index.html">Mossbloom Studio</a><nav><a href="../index.html">Home</a><a href="../portfolio.html">Portfolio</a><a href="../license.html">Formats & License</a><a href="../freebies.html">Freebies</a><a href="../about.html">About</a><a href="../contact.html">Contact</a></nav></header><main><p><a href="../portfolio.html">← Portfolio</a></p><h1>Autumn Cozy</h1><p>Pumpkins, maple leaves, acorns, mushrooms and a warm mug — cozy fall clipart.</p><p class="note">10 designs · PNG 300 dpi, transparent background · JPG · Commercial use license</p><img src="../img/autumn-cozy/cover.webp" alt="Autumn Cozy cover" style="width:100%;border-radius:14px"><div class="grid big"><div class="note"><h3>What you get</h3><ul><li>10 watercolor clipart elements</li><li>Transparent PNG, 300 dpi, up to 6.8 inches on the longest side</li><li>Commercial use license included</li></ul></div><div class="note"><h3>What's inside</h3><p>Acorns, Autumn Wreath, Cozy Books, Cozy Mug, Falling Leaves, Maple Leaf, Mushrooms, Pumpkin Trio, Pumpkin, Sunflower</p></div><div class="note"><h3>Perfect for</h3><p>sublimation, tumblers & mugs, t-shirts, stickers, cards & invitations, scrapbooking, junk journals, nursery & home decor</p></div></div><h2>Designs</h2><div class="grid"><a class="card" href="../img/autumn-cozy/acorns.webp"><img loading="lazy" src="../img/autumn-cozy/acorns.webp" alt="Acorns - Autumn Cozy"><div><h3>Acorns</h3></div></a><a class="card" href="../img/autumn-cozy/autumn-wreath.webp"><img loading="lazy" src="../img/autumn-cozy/autumn-wreath.webp" alt="Autumn Wreath - Autumn Cozy"><div><h3>Autumn Wreath</h3></div></a><a class="card" href="../img/autumn-cozy/cozy-books.webp"><img loading="lazy" src="../img/autumn-cozy/cozy-books.webp" alt="Cozy Books - Autumn Cozy"><div><h3>Cozy Books</h3></div></a><a class="card" href="../img/autumn-cozy/cozy-mug.webp"><img loading="lazy" src="../img/autumn-cozy/cozy-mug.webp" alt="Cozy Mug - Autumn Cozy"><div><h3>Cozy Mug</h3></div></a><a class="card" href="../img/autumn-cozy/falling-leaves.webp"><img loading="lazy" src="../img/autumn-cozy/falling-leaves.webp" alt="Falling Leaves - Autumn Cozy"><div><h3>Falling Leaves</h3></div></a><a class="card" href="../img/autumn-cozy/maple-leaf.webp"><img loading="lazy" src="../img/autumn-cozy/maple-leaf.webp" alt="Maple Leaf - Autumn Cozy"><div><h3>Maple Leaf</h3></div></a><a class="card" href="../img/autumn-cozy/mushrooms.webp"><img loading="lazy" src="../img/autumn-cozy/mushrooms.webp" alt="Mushrooms - Autumn Cozy"><div><h3>Mushrooms</h3></div></a><a class="card" href="../img/autumn-cozy/pumpkin-trio.webp"><img loading="lazy" src="../img/autumn-cozy/pumpkin-trio.webp" alt="Pumpkin Trio - Autumn Cozy"><div><h3>Pumpkin Trio</h3></div></a><a class="card" href="../img/autumn-cozy/pumpkin.webp"><img loading="lazy" src="../img/autumn-cozy/pumpkin.webp" alt="Pumpkin - Autumn Cozy"><div><h3>Pumpkin</h3></div></a><a class="card" href="../img/autumn-cozy/sunflower.webp"><img loading="lazy" src="../img/autumn-cozy/sunflower.webp" alt="Sunflower - Autumn Cozy"><div><h3>Sunflower</h3></div></a></div><h2>What's inside</h2><img loading="lazy" src="../img/autumn-cozy/inside.webp" alt="Autumn Cozy contents" style="width:100%;border-radius:14px;background:#fff"><h2>Mockups</h2><div class="grid big"><a class="card wide" href="../img/autumn-cozy/mug.webp"><img loading="lazy" src="../img/autumn-cozy/mug.webp" alt="Autumn Cozy mug mockup"><div><h3>Mug mockup</h3></div></a><a class="card wide" href="../img/autumn-cozy/tshirt.webp"><img loading="lazy" src="../img/autumn-cozy/tshirt.webp" alt="Autumn Cozy tshirt mockup"><div><h3>Tshirt mockup</h3></div></a><a class="card wide" href="../img/autumn-cozy/stickers.webp"><img loading="lazy" src="../img/autumn-cozy/stickers.webp" alt="Autumn Cozy stickers mockup"><div><h3>Stickers mockup</h3></div></a><a class="card wide" href="../img/autumn-cozy/card.webp"><img loading="lazy" src="../img/autumn-cozy/card.webp" alt="Autumn Cozy card mockup"><div><h3>Card mockup</h3></div></a></div></main>
 <footer>© 2026 Mossbloom Studio · Original watercolor clipart &amp; SVG designs · Creative Fabrica Account ID #11487475</footer></body></html>
